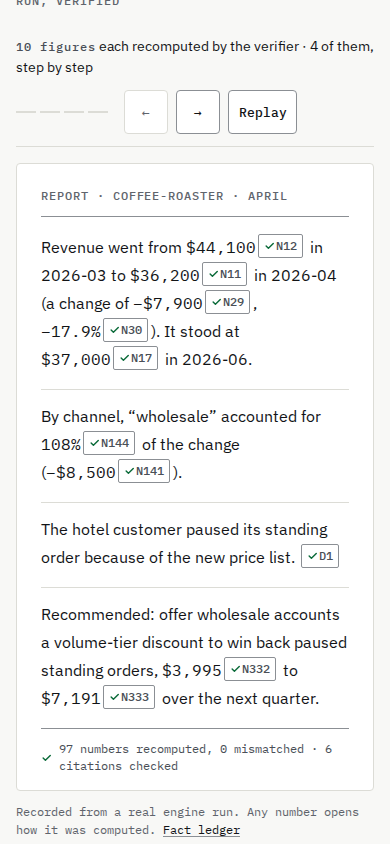
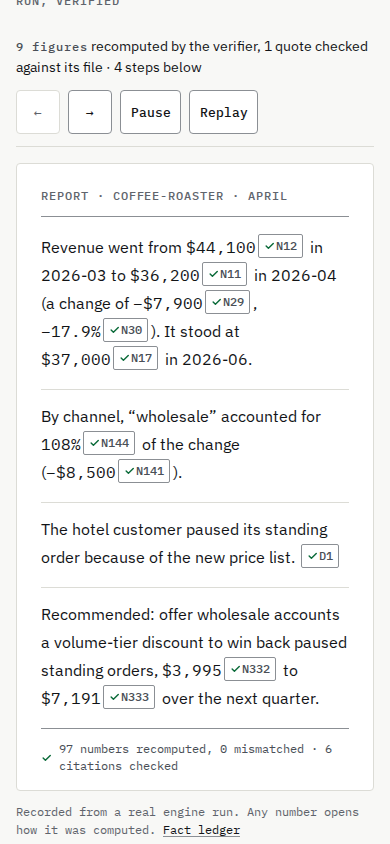
fix(site): review round 1 — verification on any viewport, honest step-0 count, Pause and hover hold in timed mode, aria-disabled prev/next, scroll mode from 1100 px, quiet replay, labelled scroll regions, header menu class before first paint

Changed region(s): [[0.0308, 0.0308, 0.9538, 0.154], [0.1231, 0.1232, 0.1846, 0.154], [0.0308, 0.1232, 0.0615, 0.154]]

diff --git a/scripts/site/browser/site.spec.ts b/scripts/site/browser/site.spec.ts
@@ -198,14 +198,46 @@ test("hero: scrolling steps through the walkthrough on desktop, each step openin
       await expect(open.locator("tr.is-cited")).not.toHaveCount(0);
     }
   }
-  await expect(page.locator("[data-walk-next]")).toBeDisabled();
+  await expect(page.locator("[data-walk-next]")).toHaveAttribute("aria-disabled", "true");
   await page.locator("[data-walk-prev]").click();
   await expect(cap(steps.length - 1)).toBeVisible();
+  // Exploring mid-walkthrough: hovering another figure opens its note; leaving returns to the step's note.
+  const stepNote = await open.getAttribute("id");
+  await page.locator('.aa-exhibit a.aa-chip[data-note="N12"]').hover();
+  await expect(page.locator("#aa-note-N12")).toHaveClass(/is-open/);
+  await page.mouse.move(5, 5);
+  await expect(open).toHaveAttribute("id", stepNote ?? "");
   await page.locator("[data-walk-replay]").click();
   await expect(cap(0)).toBeVisible();
   await expect(wrap).toHaveAttribute("data-anim", "done", { timeout: 4_000 });
+  await page.waitForTimeout(1_200);
+  await expect(cap(0)).toBeVisible();
   await page.locator("[data-walk-next]").click();
   await expect(cap(1)).toBeVisible();
+});
+
+test("hero: from 1100 × 704 px (where scroll drives the steps) every step's note fits on screen", async ({ page }) => {
+  await page.setViewportSize({ width: 1100, height: 704 });
+  await page.goto(LANDING);
+  const steps = JSON.parse((await page.locator("[data-exhibit]").getAttribute("data-steps")) ?? "[]") as string[];
+  const start = await page.evaluate(() => {
+    const w = document.querySelector("[data-exhibit]") as HTMLElement;
+    const s = document.querySelector(".aa-walk-stick") as HTMLElement;
+    return window.scrollY + w.getBoundingClientRect().top - Number.parseFloat(getComputedStyle(s).top);
+  });
+  for (let k = 1; k <= steps.length; k++) {
+    await page.evaluate((y) => window.scrollTo(0, y), start + k * 352 + 20);
+    await expect(page.locator(`.aa-walk-cap[data-step="${k}"]`)).toBeVisible();
+    await expect(page.locator(".aa-note.is-open")).toBeInViewport({ ratio: 1 });
+  }
+});
+
+test("hero: on a landscape phone (667 × 375) the figures still verify as the exhibit comes into view", async ({ page }) => {
+  await page.setViewportSize({ width: 667, height: 375 });
+  await page.goto(LANDING);
+  await page.locator(".aa-exhibit-page").evaluate((el) => el.scrollIntoView({ block: "start" }));
+  await expect(page.locator("[data-exhibit]")).toHaveAttribute("data-anim", "done", { timeout: 4_000 });
+  await expect(page.locator(".aa-exhibit a.aa-chip.is-verified")).toHaveCount(await page.locator(".aa-exhibit a.aa-chip").count());
 });
 
 test("hero: under 900 px the walkthrough advances by itself, its notes below the figure, without moving the page", async ({ page }) => {
@@ -229,11 +261,19 @@ test("hero: under 900 px the walkthrough advances by itself, its notes below the
   const before = await below();
   await expect(page.locator('.aa-walk-cap[data-step="2"]')).toBeVisible({ timeout: 6_000 });
   expect(await below()).toBe(before);
-  // By hand: next stops the timer.
-  await page.locator("[data-walk-next]").click();
-  await expect(page.locator('.aa-walk-cap[data-step="3"]')).toBeVisible();
+  // Pause stops the timer (WCAG 2.2.2), Play resumes it; stepping by hand pauses too.
+  const pause = page.locator("[data-walk-pause]");
+  await pause.click();
+  await expect(pause).toHaveAttribute("aria-pressed", "true");
   await page.waitForTimeout(5_000);
-  await expect(page.locator('.aa-walk-cap[data-step="3"]')).toBeVisible();
+  await expect(page.locator('.aa-walk-cap[data-step="2"]')).toBeVisible();
+  await pause.click();
+  await expect(page.locator('.aa-walk-cap[data-step="3"]')).toBeVisible({ timeout: 6_000 });
+  await page.locator("[data-walk-prev]").click();
+  await expect(page.locator('.aa-walk-cap[data-step="2"]')).toBeVisible();
+  await expect(pause).toHaveAttribute("aria-pressed", "true");
+  await page.waitForTimeout(5_000);
+  await expect(page.locator('.aa-walk-cap[data-step="2"]')).toBeVisible();
 });
 
 test("landing: no box moves while the fonts arrive late (390, 1440 px)", async ({ page }) => {

diff --git a/apps/docs/scripts/landing-data.ts b/apps/docs/scripts/landing-data.ts
@@ -387,7 +387,13 @@ export function walkthrough(x: {
     });
   }
   const source = Object.values(notes).find((n) => n.kind === "source");
-  if (source) steps.push({ id: source.id, title: "The cause", figures: [], how: `quoted from ${source.value}, checked against the file` });
+  if (source)
+    steps.push({
+      id: source.id,
+      title: "The cause",
+      figures: [],
+      how: `quoted from ${source.value}${source.verified ? ", checked against the file" : ""}`,
+    });
   return steps;
 }
 

diff --git a/docs/progress/STATE.md b/docs/progress/STATE.md
@@ -36,7 +36,7 @@ Since 2026-10-16 (maintainer's instruction, from PR #15 on): post the spec-revie
 | M13h Real-run fixes (router cache, metric alias, DECIDE budget, partial results, Kaggle notebook, resource limits) | DONE | no | [#25](https://github.com/gfirik/agentic-analytics/pull/25), [#26](https://github.com/gfirik/agentic-analytics/pull/26), [#27](https://github.com/gfirik/agentic-analytics/pull/27), [#28](https://github.com/gfirik/agentic-analytics/pull/28), [#29](https://github.com/gfirik/agentic-analytics/pull/29), [#30](https://github.com/gfirik/agentic-analytics/pull/30), [#31](https://github.com/gfirik/agentic-analytics/pull/31) | `bunx vitest run packages/models/test/router.test.ts packages/models/test/fetch.test.ts packages/metrics/test/self-join.test.ts packages/core/test/drafted-metrics.test.ts packages/agent/test/budget.test.ts packages/models/test/budget.test.ts evals/runner/test/cli.test.ts evals/runner/test/kaggle-notebook.test.ts scripts/test/evals-table.test.ts apps/cli/test/standalone.test.ts` | Fixes from real-model runs (docs/plans/m13h.md): a rate-limited route still serves cached answers (#25); construction_supplier-v1's `duplicate alias "m1"`: self-ratio and `x / x` drafts rejected with a reason, unique join aliases, `metrics.drafted.json` in every job folder, kept by `aa eval --keep-reports` (#26); small-model DECIDE input budget, printing_shop-v1 9,047 → 6,220 estimated tokens (#28); Groq full pass after the fixes published partial, 8 of 30 jobs, and `scripts/eval-daily.sh` (one pass a day) replaces the 30-minute retry loop (#30); `aa eval --label/--note/--only` (a chunk needs a `--results-dir` outside the checkout's evals/results), `bun run eval:merge` (one row from chunks, real timings) and the Kaggle notebook evals/kaggle/full-suite-vllm.ipynb (Qwen3.8-27B 4-bit on vLLM 0.30, 2×T4, resumable), its run DEFERRED to the maintainer (#27); machine resource limits, one heavy job at a time (#29); Groq's OTPM 429 re-sent with a lower max_tokens, org ids masked in call records and errors (#31) |
 | M13i Website v2 ("the audited page") | DONE | no | [#32](https://github.com/gfirik/agentic-analytics/pull/32) | `bun run --filter @agentic-analytics/docs build && bun run site:check:browser`; `bunx vitest run scripts/test/landing-exhibit.test.ts scripts/test/site-light.test.ts scripts/test/learn.test.ts`; `tsx apps/docs/scripts/site-screenshots.ts [--record]` | The maintainer's design spec (docs/design/website-v2.md, merged into apps/docs/DESIGN.md and deleted): light only (no dark tokens, theme control or colour-scheme queries); the framed graph-paper landing page with a generated status strip; the hero exhibit (the recorded coffee-roaster report, verified figure by figure once, ≤ 2.5 s, none under reduced motion; a margin note per figure with its SQL or function and the cited sheet rows read back from the run); §1–§4; Tufte-style docs and Learn (240px sidebar, ~64ch serif article, a margin column with the sticky TOC from 1200px), `<Sidenote>`/`<MarginNote>`, epigraphs on the stage pages. Lighthouse (simulated mobile): `/` 99/100/100/100, `/learn/stages/analysis/` 95/100/100/100 |
 | M13j Status wording (proven results lead) | DONE | no | [#33](https://github.com/gfirik/agentic-analytics/pull/33) | `bun run readme:assets && bunx vitest run scripts/test/evals-table.test.ts scripts/test/landing-exhibit.test.ts`; `bun run --filter @agentic-analytics/docs build && bun run site:check:browser` | Maintainer instruction: the site strip and the README no longer lead with the full real-model eval's partial pass. Both lead with what is proven: real public data 12/12 checks, the real-model smoke run (3/3 jobs, 0 wrong numbers), the test files, the verifier on every report. The 30-business suite is described as the nightly regression check (one scheduled pass a night; the latest published pass), its latest numbers linked (strip → landing §3; README status → "Real-model runs"), never headlined. The README status block is generated (`statusBlock()`, scripts/readme-assets/assets.ts) from evals/results; landing §3 lists real public data first. Final wording changes after the analyst-grade plan |
-| M13k Hero restructure and self-demonstrating exhibit | DONE | no | PR link added after open | `bun run --filter @agentic-analytics/docs build && bun run site:check:browser`; `bunx vitest run scripts/test/landing-exhibit.test.ts`; `tsx apps/docs/scripts/site-screenshots.ts [--record]` | Maintainer instruction: hex.tech's structure. A centred statement block (eyebrow, serif headline, two plain lines, actions, the install line), then the exhibit as its own framed section, full width. The exhibit demonstrates itself: it verifies as it comes into view, then a guided walkthrough of 4 key figures (`walkthrough()`, chosen by role from the run: the change, its SQL input with sheet rows, the driver, the quoted cause) opens each margin note under a step indicator ("1/4 Revenue fell −17.9% → how it was computed"). Scroll-linked with a sticky section from 900×704 px; timed on smaller screens while the notes are on screen, under a sticky step bar; prev, next and replay. Static ruled list under reduced motion or without JS. No box moves on the font swap (strip one line, install line one line in a box, Plex Mono preloaded). Lighthouse (simulated mobile): `/` 97/100/100/100 with CLS 0 (three runs), `/learn/stages/analysis/` 95/100/100/100 |
+| M13k Hero restructure and self-demonstrating exhibit | DONE | no | [#34](https://github.com/gfirik/agentic-analytics/pull/34) | `bun run --filter @agentic-analytics/docs build && bun run site:check:browser`; `bunx vitest run scripts/test/landing-exhibit.test.ts`; `tsx apps/docs/scripts/site-screenshots.ts [--record]` | Maintainer instruction: hex.tech's structure. A centred statement block (eyebrow, serif headline, two plain lines, actions, the install line), then the exhibit as its own framed section, full width. The exhibit demonstrates itself: it verifies as it comes into view, then a guided walkthrough of 4 key figures (`walkthrough()`, chosen by role from the run: the change, its SQL input with sheet rows, the driver, the quoted cause) opens each margin note under a step indicator ("1/4 Revenue fell −17.9% → how it was computed"). Scroll-linked with a sticky section from 1100×704 px; timed on smaller screens while the notes are on screen, under a sticky step bar, with Pause; prev, next and replay. Static ruled list under reduced motion or without JS. No box moves on the font swap (strip one line, install line one line in a box, Plex Mono preloaded), and the header's menu class is set before first paint (it collapsed late under CPU throttling: CLS 0.056 in QA). Lighthouse (simulated mobile): `/` 97/100/100/100 with CLS 0 (three runs), `/learn/stages/analysis/` 95/100/100/100 |
 
 Order: M0 → M1 → M2 → M3 → M4 → M5 → M6 → M7 → M8 → M9 → M10 → M11 → M12. In autopilot it runs sequentially. Parallel worktrees are an interactive option only.
 
@@ -308,7 +308,7 @@ These are checks that need something this machine doesn't have yet, such as a re
 - [M13i] The sticky TOC shares the margin column with sidenotes and full-width figures: it has the page background and a height cap, notes scroll beneath it, and while a full-width figure passes under it the TOC steps aside (hidden) so the figure is never covered, and likewise for a sidenote beneath it (review round 1); without JS the TOC stays on top — apps/docs/src/components/starlight/TwoColumnContent.astro
 - [M13i] The landing page's fact ledger is collapsed until one of its rows is the link target (`:has(:target)`), so the chips still work without JS while the hero stays one screen; the margin note links to it
 - [M13k] The walkthrough has four steps: the change, its current-period SQL input (the step that shows SQL and sheet rows; the change itself is a function of two SQL facts), the driver, the quoted cause. The recommendation is not a step: its note is a scenario function, and the four tell what changed and why. Hover and focus still open it — apps/docs/scripts/landing-data.ts walkthrough()
-- [M13k] Scroll drives the steps only where the section can stay on screen (≥ 900 px wide and ≥ 704 px tall). Smaller screens advance on a timer (4.5 s a step) while the notes are on screen, because a sticky section taller than a phone screen can't show the figure and its note together; stepping by hand stops the timer — DESIGN.md §6
+- [M13k] Scroll drives the steps only where the section and every note fit on screen (≥ 1100 px wide and ≥ 704 px tall; between 900 and 1100 px the narrower notes column makes the SQL note too tall, review round 1). Smaller screens advance on a timer (4.5 s a step) while the notes are on screen, because a sticky section taller than a phone screen can't show the figure and its note together. The timer waits while the reader hovers or focuses inside the exhibit; Pause stops it (WCAG 2.2.2); stepping by hand pauses it — DESIGN.md §6
 - [M13k] The install line under the actions is `git clone … && cd agentic-analytics && bun install` (the spec asks for an install line; the analyze command is in §4 Quickstart), one line in a hairline box that scrolls sideways on phones. The status strip also stays one line and scrolls sideways under 1180 px. Both wrapped differently in the fallback mono face and moved the page when Plex Mono arrived (CLS 0.05 in Lighthouse); Plex Mono 400 is now preloaded on the landing page too — apps/docs/src/components/site/StatusStrip.astro, FontPreloads.astro
 
 ## Known gaps carried forward

diff --git a/apps/docs/DESIGN.md b/apps/docs/DESIGN.md
@@ -167,12 +167,13 @@ The scale (rem, root 16px; mobile values apply under 640px):
   - **What it is.** A `raised` panel with a hairline, styled like a report page and titled in mono (`REPORT · COFFEE-ROASTER · APRIL`).
     - It shows the recorded run's first finding (`src/data/exhibit.json`): its two headline claims, the document-supported cause with its source chip, and the top recommendation with its impact range.
     - This is the report's own text, with every figure a fact's stored value.
-  - **The verification replay.** As the exhibit comes into view, and only without `prefers-reduced-motion`, the figures are verified one by one, top to bottom: each chip's box draws in, then the green check appears in the space it already holds (~250ms per figure, ≤ 2.5s in all). An inline script holds the figures unverified before first paint. With reduced motion or no JS, the server-rendered verified state is all there is.
+  - **The verification replay.** As the exhibit comes into view (its report page's top above the bottom sixth of the screen), and only without `prefers-reduced-motion`, the figures are verified one by one, top to bottom: each chip's box draws in, then the green check appears in the space it already holds (~250ms per figure, ≤ 2.5s in all). An inline script holds the figures unverified before first paint. With reduced motion or no JS, the server-rendered verified state is all there is.
   - **The guided walkthrough.** The exhibit demonstrates itself, with no hover needed. After the verification it steps through the story's key figures, opening each one's margin note under a step indicator (`1/4 Revenue fell −17.9% → how it was computed`), with a progress rule and previous, next and replay buttons.
     - The steps are chosen from the run's data by role (`walkthrough()` in `scripts/landing-data.ts`), never by typed id: the headline change and how it was computed; its current-period SQL input with the SQL and the sheet rows it read; the driver's share of the change; the quoted document.
-    - From 900px wide and 704px tall, scroll drives the steps: the exhibit section is sticky while a track of half a screen per step (plus one for the verification) scrolls past. Previous and next scroll to their step.
-    - On smaller screens the same steps advance every few seconds while the notes (below the figure) are on screen, under a sticky step bar; stepping by hand stops the timer. The notes share one grid cell as tall as the tallest, so stepping never moves the page.
-    - The step's figure takes the `mark` wash in the text, and its chip shows open.
+    - From 1100px wide and 704px tall, scroll drives the steps: the exhibit section is sticky, centred on screen, while a track of half a screen per step (plus one for the verification) scrolls past. Previous and next scroll to their step; Replay scrolls back without flashing the steps it passes. Every step's note fits on screen there (a browser test checks 1100×704).
+    - On smaller screens the same steps advance every 4.5 seconds while the notes (below the figure under 900px) are on screen, under a sticky step bar. The timer waits while the reader hovers or focuses inside the exhibit, Pause stops it (WCAG 2.2.2), and stepping by hand pauses it. The notes and the step captions each share one grid cell as tall as the tallest, so stepping never moves the page.
+    - The step's figure takes the `mark` wash in the text, and its chip shows open. Prev and next use `aria-disabled` at the ends, so keyboard focus is never lost.
+    - Step 0 says what the verifier did to what is shown: the figures recomputed and the quotes checked, counted from the notes.
     - Under reduced motion, or without JS, the steps are a static ruled list under the exhibit, each with its note; no sticky track, no step bar.
     - The walkthrough is switched on before first paint (`data-walk="live"`), so the track and the list never shift the layout.
   - **Margin notes.** Hovering or focusing a figure slides a Tufte-style margin note out to the right of the exhibit, joined to the figure by a hairline leader. From 900px it sits beside the exhibit; under 900px it sits below. The note shows:

diff --git a/docs/DOCS-SITE.md b/docs/DOCS-SITE.md
@@ -33,7 +33,7 @@ They share one design system, `apps/docs/DESIGN.md`. Its tokens live in `src/sty
 - **The hero exhibit** (`components/site/Exhibit.astro`, landing page):
   - It shows the first finding of the real coffee-roaster run, each number followed by its fact-ID chip.
   - It replays its verification as it comes into view, unless reduced motion is on.
-  - It walks through its key figures by itself (M13k): the change, its SQL input and sheet rows, the driver, the quoted cause (`walkthrough()` in `scripts/landing-data.ts`, chosen by role from the run's data). Scroll drives the steps on desktop (a sticky section); smaller screens advance on a timer while the notes are on screen. Previous, next and replay are always there; reduced motion or no JS shows the steps as a static ruled list.
+  - It walks through its key figures by itself (M13k): the change, its SQL input and sheet rows, the driver, the quoted cause (`walkthrough()` in `scripts/landing-data.ts`, chosen by role from the run's data). Scroll drives the steps from 1100×704 px (a sticky section); smaller screens advance on a timer while the notes are on screen, with Pause, waiting while the reader hovers or focuses inside. Previous, next and replay are always there; reduced motion or no JS shows the steps as a static ruled list.
   - Hovering or focusing a figure opens its margin note: the SQL and parameters (or the function and its inputs), and the cited sheet rows.
   - A chip links to the fact's row in a static fact ledger, so it works without JS.
 - **`<Sidenote>` / `<MarginNote>`** (Learn, MDX): Tufte-style notes in the margin column, tap-to-expand under 1000px.

diff --git a/apps/docs/README.md b/apps/docs/README.md
@@ -35,7 +35,8 @@ Mermaid diagrams come from the same `docs/assets/diagrams/*.mmd` files the READM
 - `RagStepper`: BM25 → vectors → RRF → rerank → extract.
 - `VerifierDiff`: the draft against the verified report.
 - `Mermaid`: the shared diagrams, in the site's colours and type.
-- `Exhibit.astro` (landing page): the report page, its verification replay and margin notes. Without JS the chips link into the static fact ledger.
+- `Exhibit.astro` (landing page): the report page, its verification as it comes into view, and its guided walkthrough (M13k): the steps from `walkthrough()` in `scripts/landing-data.ts`, each opening a margin note under a step bar (← → Pause Replay). Scroll drives the steps from 1100×704 px (a sticky section), a timer drives them on smaller screens, and reduced motion or no JS shows them as a static ruled list. Hover and focus open any figure's note. Without JS the chips link into the static fact ledger.
+- `ExhibitNote.astro`: a margin note's body (the fact's value, its SQL or function, the cited sheet rows, or a document's quote), shared by the margin column and the static list.
 - `Sidenote.astro` / `MarginNote.astro` (Learn): notes in the margin column, inline under 1000px.
 - `learn/StageFlow` (Learn): one stage as in → stage → out with the run's real numbers, stepped through; `learn/Transcript`, `learn/Fact`, `learn/FactLedger`, `learn/Claim` and `learn/LearnMap` are static Astro components.
 
